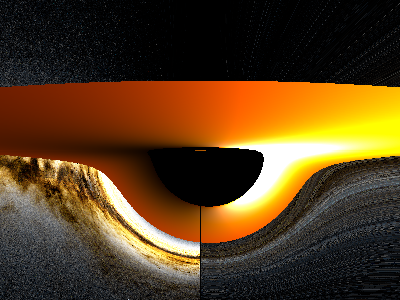
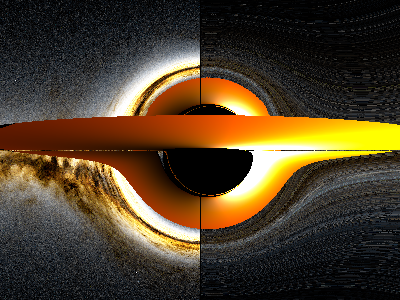
README photo

diff --git a/KerrRayTracer/photons.cpp b/KerrRayTracer/photons.cpp
@@ -96,7 +96,6 @@ void Photons::rkdpStepRay(size_t i) {
 		dlambda[i] *= scale;
 
 		if (norm_err <= 1.0 || rejectedSteps == MAX_STEPS - 1) {
-			//std::cout << "finished RKDP step in " << rejectedSteps << " steps, with norm_err = " << norm_err << " \n";
 			r[i] = std::max(next_r, 0.0);
 			theta[i] = std::clamp(next_theta, 1e-14, PI - 1e-14);
 			phi[i] += dlambda[i] * (35.0 / 384.0 * dphi[i] + 500.0 / 1113.0 * k3.dphi + 125.0 / 192.0 * k4.dphi + -2187.0 / 6784.0 * k5.dphi + 11.0 / 84.0 * k6.dphi);
@@ -108,15 +107,15 @@ void Photons::rkdpStepRay(size_t i) {
 			//dtheta[i] *= (2 * (abs(dtheta[i]) >= 1e-14) - 1);
 			sign_r[i] *= (2 * (abs(dr[i]) >= 1e-14) - 1);
 			sign_theta[i] *= (2 * (abs(dtheta[i]) >= 1e-14) - 1);
-			r[i] += (abs(dr[i]) <= 1e-14) * dlambda[i];
-			theta[i] += (abs(dtheta[i]) <= 1e-14) * dlambda[i];
+			r[i] += sign_r[i] * (abs(dr[i]) <= 1e-14) * dlambda[i];
+			theta[i] += sign_theta[i] * (abs(dtheta[i]) <= 1e-14) * dlambda[i];
 			break;
 		}
 	}
 }
 
 void Photons::traceAllRays() {
-	constexpr int MAX_STEPS = 25000;
+	constexpr int MAX_STEPS = 30000;
 
 	#pragma omp parallel for schedule(dynamic, 16)
 	for (int i = 0; i < count; ++i) {

diff --git a/KerrRayTracer/SDL_rendering.hpp b/KerrRayTracer/SDL_rendering.hpp
@@ -157,7 +157,6 @@ uint32_t getAccretionColour(double r, double xi) {
 }
 
 uint32_t sampleSkyField(double theta, double phi) {
-    //double u = std::fmod(phi, TWO_PI) / TWO_PI; 
     double u = std::clamp((phi / TWO_PI), 0.0, 1.0);
     double v = std::clamp(theta / PI, 0.0, 1.0);
     size_t x = std::clamp((size_t)(u * SKY_WIDTH), 0ull, SKY_WIDTH - 1);
@@ -170,7 +169,7 @@ void drawScreen(RelativisticCamera& camera, SDL_Texture* streamTexture) {
     for (int photonIndex = 0; photonIndex < camera.width * camera.height; ++photonIndex) {
         switch (camera.photons.state[photonIndex]) {
         case PhotonState::Active:
-            camera.pixelBuffer[photonIndex] = packRGBA32(0, 255, 0);
+            camera.pixelBuffer[photonIndex] = packRGBA32(0, 0, 0);
             break;
         case PhotonState::Captured:
             camera.pixelBuffer[photonIndex] = packRGBA32(0, 0, 0);

diff --git a/KerrRayTracer/main.cpp b/KerrRayTracer/main.cpp
@@ -46,8 +46,8 @@ int main() {
     #pragma omp single
 		std::cout << "Running with " << omp_get_num_threads() << " thread(s)\n";
 	}
-	constexpr int WIDTH = 400;
-	constexpr int HEIGHT = 300;
+	constexpr int WIDTH = 1000;
+	constexpr int HEIGHT = 750;
 
 	SDL_Init(SDL_INIT_VIDEO);
 
@@ -68,7 +68,7 @@ int main() {
 	uint64_t ms_elapsed = 0;
 	
 	RelativisticCamera camera(WIDTH, HEIGHT);
-	camera.setPosition(25.0, 1.0);
+	camera.setPosition(30.0, 1.5);
 
 	camera.initTetrad();
 	SDL_Log("generating photons...\n");
@@ -86,7 +86,7 @@ int main() {
 	ms_elapsed = SDL_GetTicks();
 	SDL_Log("finished drawing screen in %u ms!\n", ms_elapsed);
 
-	saveTextureToPNG(renderer, streamTexture, "C:\\Users\\User\\source\\repos\\KerrRayTracer\\KerrRayTracer\\renders\\Blackhole15.png");
+	saveTextureToPNG(renderer, streamTexture, "README_IMG.png");
 	/*
 	SDL_Event event;
 	while (running) {
